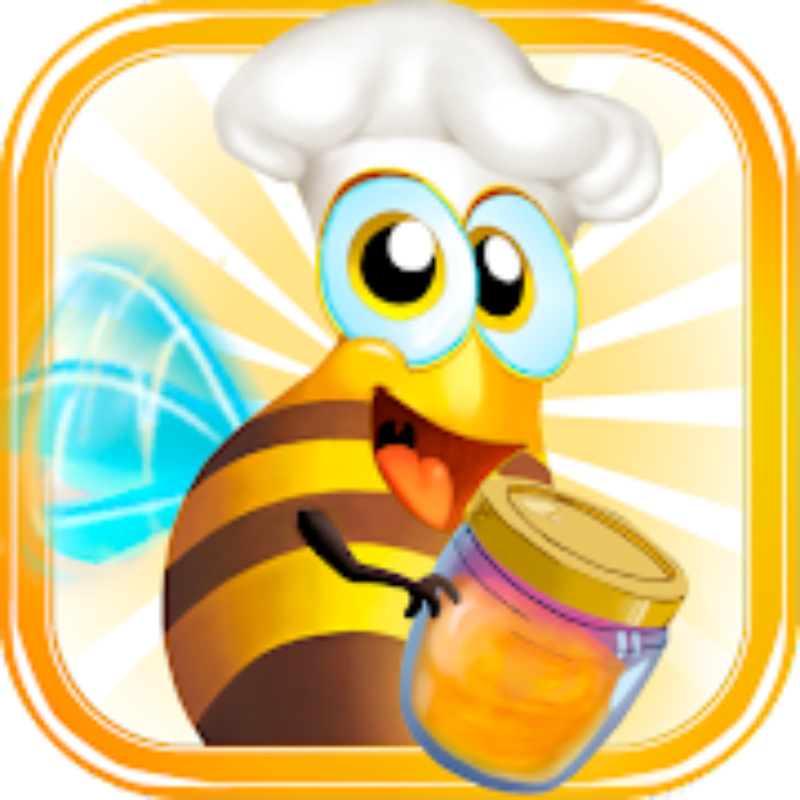
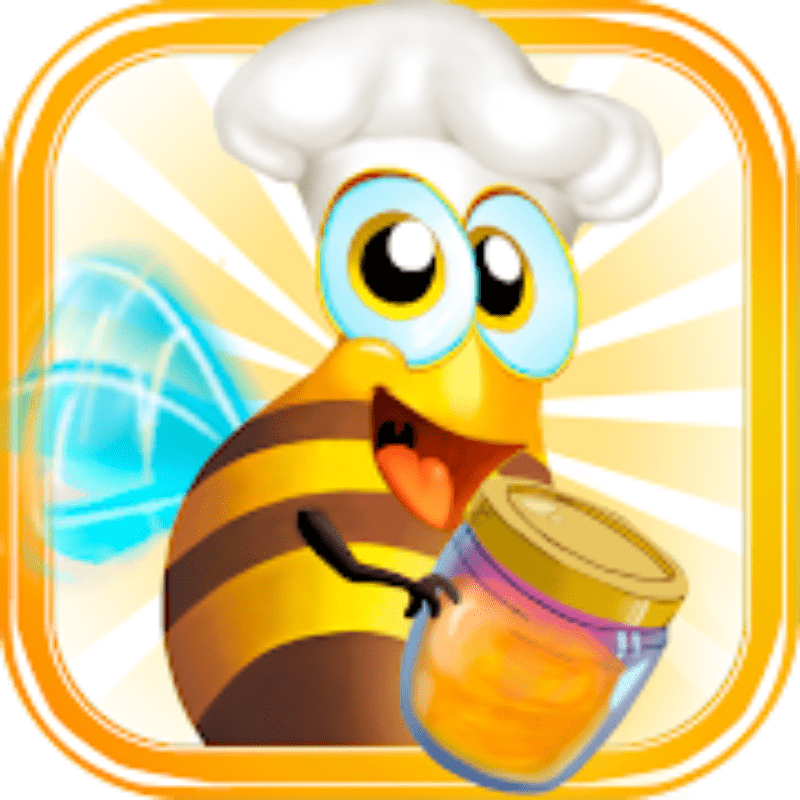
Modify some the assets and compress Images.
Change the target of the link in index.html.

diff --git a/index.html b/index.html
@@ -386,7 +386,7 @@ challenge.
 
          <div id="modal-06" class="popup-modal mfp-hide">
 
-		      <img class="scale-with-grid" src="images/portfolio/modals/m-saychin.jpg" alt="" />
+		      <img class="scale-with-grid" src="images/portfolio/modals/m-saychin.png" alt="" />
 
 		      <div class="description-box">
 			      <h4>Saychin</h4>
